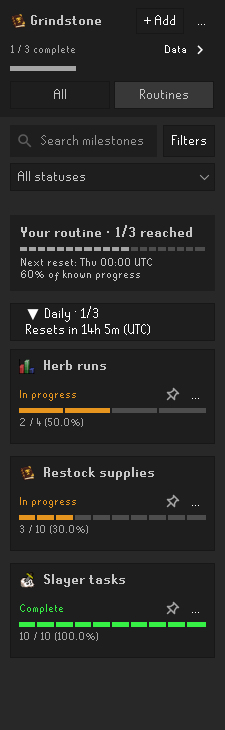
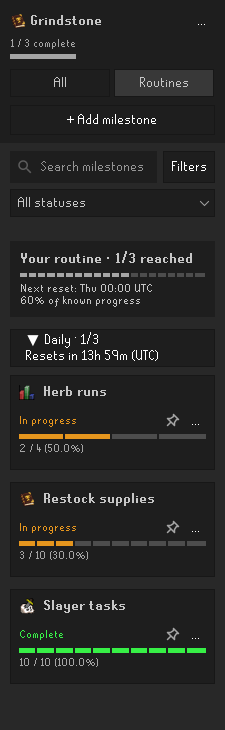
Clarify sidebar primary action and game data navigation

diff --git a/src/main/java/com/grindstone/ui/GrindstonePanel.java b/src/main/java/com/grindstone/ui/GrindstonePanel.java
@@ -77,6 +77,7 @@ import javax.swing.JCheckBox;
 import javax.swing.JComboBox;
 import javax.swing.JLabel;
 import javax.swing.JList;
+import javax.swing.JMenuItem;
 import javax.swing.JOptionPane;
 import javax.swing.JPanel;
 import javax.swing.JPopupMenu;
@@ -85,7 +86,6 @@ import javax.swing.JTextArea;
 import javax.swing.JTextField;
 import javax.swing.JToggleButton;
 import javax.swing.ScrollPaneConstants;
-import javax.swing.SwingConstants;
 import javax.swing.SwingUtilities;
 import javax.swing.Timer;
 import javax.swing.event.DocumentEvent;
@@ -167,7 +167,7 @@ public class GrindstonePanel extends PluginPanel {
     private final JButton clearFiltersButton = new JButton("Clear");
     private final JToggleButton todayButton = new JToggleButton("Routines");
     private final JToggleButton allMilestonesButton = new JToggleButton("All", true);
-    private final JButton dashboardToggle = new JButton("Data");
+    private final JMenuItem dashboardToggle = new JMenuItem("Game data");
     private JScrollPane filterScroll;
     private SidebarViewControls viewControls;
     private GrindstoneProfile viewProfile;
@@ -256,22 +256,20 @@ public class GrindstonePanel extends PluginPanel {
         titleRow.setAlignmentX(LEFT_ALIGNMENT);
         titleLabel.setIcon(new ImageIcon(Icon.MAIN.getImage().getScaledInstance(16, 16, Image.SCALE_SMOOTH)));
         titleRow.add(titleLabel, BorderLayout.CENTER);
-        JButton add = new JButton("+ Add");
+        JButton add = new JButton("+ Add milestone");
         styleButton(add);
         add.setToolTipText("Create an automatic tracker or a custom milestone with manual progress.");
         add.getAccessibleContext().setAccessibleName("Add milestone");
         add.addActionListener(event -> creationActions.showAddMilestoneDialog());
+        add.setAlignmentX(LEFT_ALIGNMENT);
+        add.setMargin(new Insets(6, 8, 6, 8));
+        add.setMaximumSize(new Dimension(Integer.MAX_VALUE, add.getPreferredSize().height));
         JButton more = new JButton("...");
         styleButton(more);
         more.setToolTipText("More milestone options");
         more.putClientProperty("JButton.buttonType", "toolBarButton");
-        JPopupMenu moreMenu = SidebarMenu.create(creationActions, editActions, bulkActions, () -> profile, developerMode, () -> clientThread.invokeLater(completionOverlay::preview), this::transferBackup, this::setAllCategoriesCollapsed, () -> MilestoneHistoryActions.showAccountHistory(actionSupport, this::revealMilestone));
+        JPopupMenu moreMenu = SidebarMenu.create(creationActions, editActions, bulkActions, () -> profile, dashboardToggle, developerMode, () -> clientThread.invokeLater(completionOverlay::preview), this::transferBackup, this::setAllCategoriesCollapsed, () -> MilestoneHistoryActions.showAccountHistory(actionSupport, this::revealMilestone));
         more.addActionListener(event -> moreMenu.show(more, 0, more.getHeight()));
-        styleButton(dashboardToggle);
-        dashboardToggle.setFont(UiTypography.META);
-        dashboardToggle.putClientProperty("JButton.buttonType", "toolBarButton");
-        dashboardToggle.setMargin(new Insets(2, 4, 2, 4));
-        dashboardToggle.setHorizontalTextPosition(SwingConstants.LEFT);
         dashboardToggle.addActionListener(event -> {
             dashboardOverview.setVisible(!dashboardOverview.isVisible());
             updateDashboardToggle();
@@ -279,11 +277,7 @@ public class GrindstonePanel extends PluginPanel {
             revalidate();
             repaint();
         });
-        JPanel titleActions = new JPanel(new BorderLayout(4, 0));
-        titleActions.setOpaque(false);
-        titleActions.add(add, BorderLayout.CENTER);
-        titleActions.add(more, BorderLayout.EAST);
-        titleRow.add(titleActions, BorderLayout.EAST);
+        titleRow.add(more, BorderLayout.EAST);
         header.add(titleRow);
         dashboardOverview.setOpaque(false);
         dashboardOverview.setLayout(new BoxLayout(dashboardOverview, BoxLayout.Y_AXIS));
@@ -291,18 +285,13 @@ public class GrindstonePanel extends PluginPanel {
         dashboardOverview.setVisible(false);
         updateDashboardToggle();
         header.add(Box.createVerticalStrut(4));
-        JPanel summaryRow = new JPanel(new BorderLayout(6, 0));
-        summaryRow.setOpaque(false);
-        summaryRow.setAlignmentX(LEFT_ALIGNMENT);
         summaryLabel.setFont(UiTypography.META);
-        summaryRow.add(summaryLabel, BorderLayout.CENTER);
-        summaryRow.add(dashboardToggle, BorderLayout.EAST);
-        header.add(summaryRow);
+        header.add(summaryLabel);
         header.add(Box.createVerticalStrut(4));
         header.add(overallProgress);
         updateStatusLabel.setFont(UiTypography.META);
         updateStatusLabel.setAlignmentX(LEFT_ALIGNMENT);
-        updateStatusLabel.setToolTipText("Storage and save messages. Expand Data for captured game data.");
+        updateStatusLabel.setToolTipText("Storage and save messages. Open Game data from the options menu for captured readings.");
         updateStatusLabel.setVisible(false);
         catchUpButton.setAlignmentX(LEFT_ALIGNMENT);
         catchUpButton.setFont(UiTypography.META);
@@ -352,10 +341,13 @@ public class GrindstonePanel extends PluginPanel {
         }
         header.add(Box.createVerticalStrut(10));
         header.add(navigation);
+        header.add(Box.createVerticalStrut(8));
+        header.add(add);
     }
 
     private void updateDashboardToggle() {
         boolean expanded = dashboardOverview.isVisible();
+        dashboardToggle.setText(expanded ? "Hide game data" : "Game data");
         dashboardToggle.setIcon(expanded ? DATA_EXPANDED_ICON : DATA_COLLAPSED_ICON);
         dashboardToggle.setToolTipText(expanded ? "Hide captured game data" : "Show captured game data and refresh instructions");
         dashboardToggle.getAccessibleContext().setAccessibleName(expanded ? "Hide game data" : "Show game data");
@@ -691,7 +683,7 @@ public class GrindstonePanel extends PluginPanel {
                 catchUpButton.setVisible(status.getCatchUpCount() > 0);
                 updateStatusLabel.setText("<html>" + (storageStatus == null ? "" : HtmlUtils.escape(storageStatus) + "<br>") + (status.getDueCount() == 0 ? "" : status.getDueCount() + " personal deadline(s) due within 24h / past due<br>") + "</html>");
                 updateStatusLabel.setVisible(storageStatus != null || status.getDueCount() > 0);
-                updateStatusLabel.setToolTipText("Storage and save messages. Expand Data for captured game data.");
+                updateStatusLabel.setToolTipText("Storage and save messages. Open Game data from the options menu for captured readings.");
                 List<MilestoneView> allGoals = new ArrayList<>(preparedViews.size());
                 for (Supplier<MilestoneView> prepared : preparedViews) {
                     allGoals.add(prepared.get());

diff --git a/src/main/java/com/grindstone/ui/SidebarMenu.java b/src/main/java/com/grindstone/ui/SidebarMenu.java
@@ -20,8 +20,10 @@ public final class SidebarMenu {
     private SidebarMenu() {
     }
 
-    public static JPopupMenu create(MilestoneCreationActions creation, MilestoneEditActions edits, BulkMilestoneActions bulk, Supplier<GrindstoneProfile> profiles, boolean developerMode, Runnable previewPopup, BiConsumer<Boolean, Boolean> transferBackup, Consumer<Boolean> collapseCategories, Runnable showHistory) {
+    public static JPopupMenu create(MilestoneCreationActions creation, MilestoneEditActions edits, BulkMilestoneActions bulk, Supplier<GrindstoneProfile> profiles, JMenuItem gameData, boolean developerMode, Runnable previewPopup, BiConsumer<Boolean, Boolean> transferBackup, Consumer<Boolean> collapseCategories, Runnable showHistory) {
         JPopupMenu menu = new JPopupMenu();
+        menu.add(gameData);
+        menu.addSeparator();
         JMenuItem link = new JMenuItem("Link milestones...");
         link.setToolTipText("Combine existing trackers into a linked milestone.");
         link.addActionListener(event -> edits.editLinkedMilestone(profiles.get(), null));

diff --git a/src/main/java/com/grindstone/config/GrindstoneConfig.java b/src/main/java/com/grindstone/config/GrindstoneConfig.java
@@ -76,7 +76,7 @@ public interface GrindstoneConfig extends Config {
         return false;
     }
 
-    @ConfigItem(keyName = "showUpdateStatus", name = "Game data status", description = "Show the Data disclosure in the sidebar header, with captured storage and collection-log readings and refresh tips.", section = DISPLAY_SECTION, position = 6)
+    @ConfigItem(keyName = "showUpdateStatus", name = "Game data status", description = "Show Game data in the options menu, with captured storage and collection-log readings and refresh tips.", section = DISPLAY_SECTION, position = 6)
     default boolean showUpdateStatus() {
         return true;
     }

diff --git a/README.md b/README.md
@@ -20,7 +20,7 @@ Search and filter by status, category, type or schedule. Pin important targets, 
 ## Get started
 
 1. Enable **Grindstone**, log in and open its RuneLite sidebar.
-2. Select **+ Add**, choose a subject and set your target.
+2. Select **+ Add milestone**, choose a subject and set your target.
 3. Save your milestone and play. Supported trackers update from available game data.
 
 Track levels and XP, bosses and activities, quests and diaries, Combat Achievements, collection-log unlocks and owned items. Personal milestones support manual counters, notes and checklists; linked milestones combine existing trackers.
@@ -65,8 +65,8 @@ Newly reached targets appear together in a compact Guild popup. Entry and exit a
 
 Sign in to the same RuneLite account on each computer to sync your character's milestones, history and snapshots. RuneLite uses its normal sync schedule. Local recovery copies and manual backups remain available through the **…** menu; milestone packs share definitions without account progress or history.
 
-Open **Data** in the sidebar for capture status and refresh instructions. Bank and other storage snapshots retain their last known contents; reopen storage after playing on another device.
+Open **… → Game data** for capture status and refresh instructions. Bank and other storage snapshots retain their last known contents; reopen storage after playing on another device.
 
-Before adding collection-log milestones, open your in-game collection log and check its capture status in **Data**. Grindstone verifies loaded unlocks against the game's total; incomplete data may require refreshing the log. **Add all collection-log pages** adds missing page milestones.
+Before adding collection-log milestones, open your in-game collection log and check its capture status in **Game data**. Grindstone verifies loaded unlocks against the game's total; incomplete data may require refreshing the log. **Add all collection-log pages** adds missing page milestones.
 
 Played on mobile or another computer? **Since last seen** summarizes changes from the previous saved reading. Exact achievement times and gains across routine resets cannot be reconstructed.
